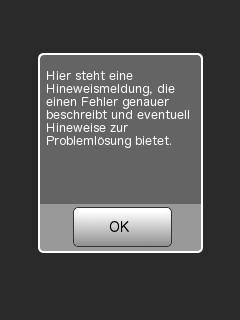
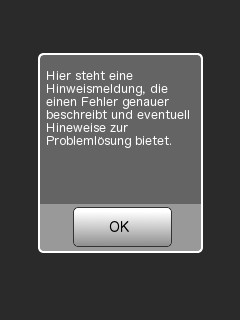
Weitere GUI Bilder hinzugefügt. Tippfehler in alert.jpg korrigiert.

Changed region(s): [[0.2625, 0.25, 0.5542, 0.3125], [0.5542, 0.25, 0.7292, 0.3125]]

diff --git a/pflichtenheft/pflichtenheft.tex b/pflichtenheft/pflichtenheft.tex
@@ -344,6 +344,9 @@ Der Client muss auf einem portablen Gerät auf Basis des Android-Betriebssystems
 \begin{illustration}{Eine Fehlermeldung nach einer Falscheingabe oder ähnlichem.}
 \includegraphics[width=150px]{figures/images/alert.jpg}
 \end{illustration}
+\begin{illustration}{Der optionale Optionsbildschirm entsprechend den Wunschkriterien.}
+\includegraphics[width=150px]{figures/images/optionscreen.jpg}
+\end{illustration}
 
 
 \section{Testfälle}
